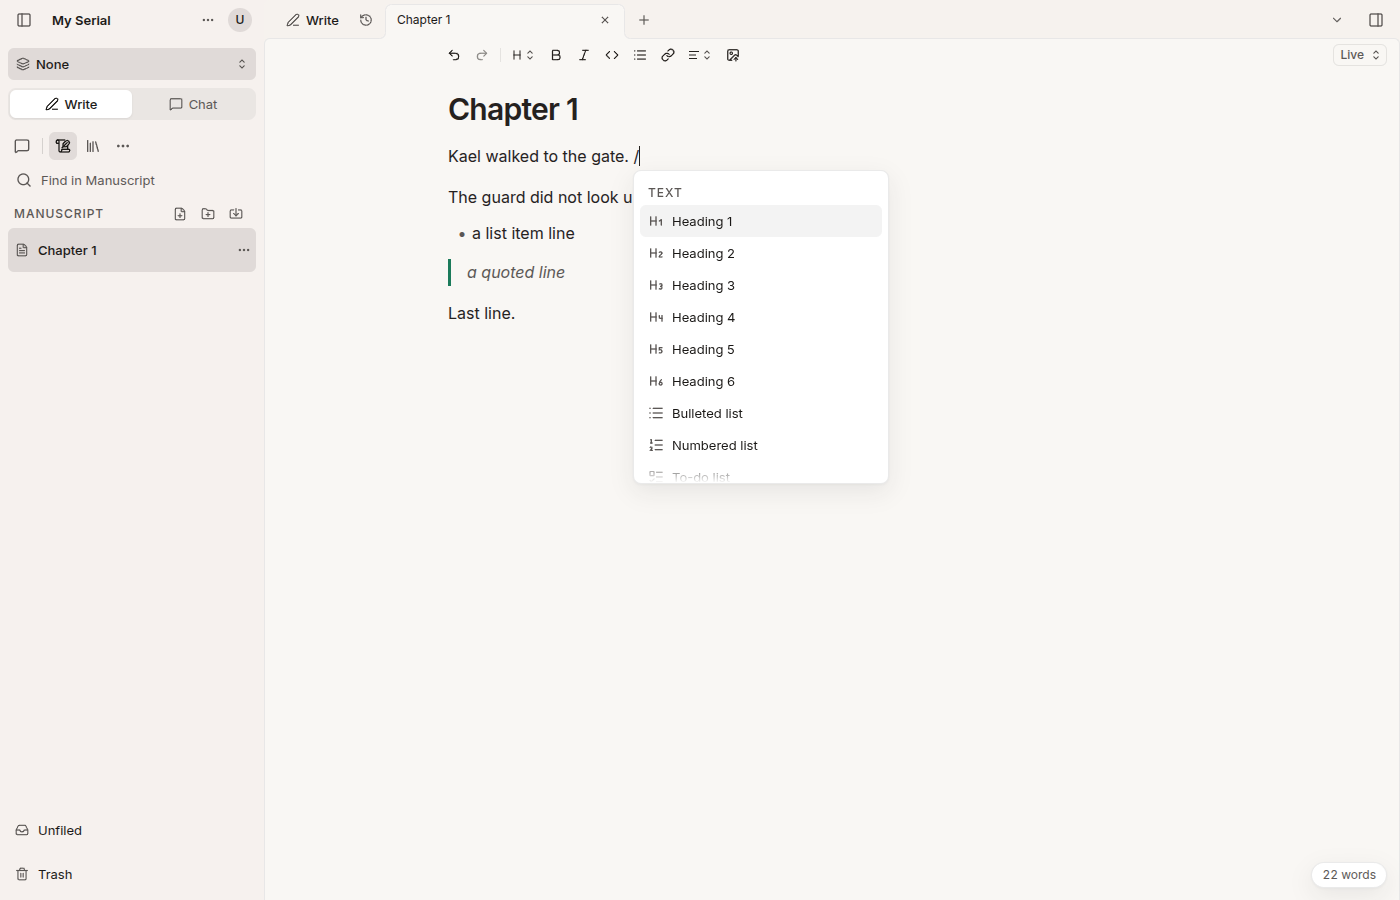
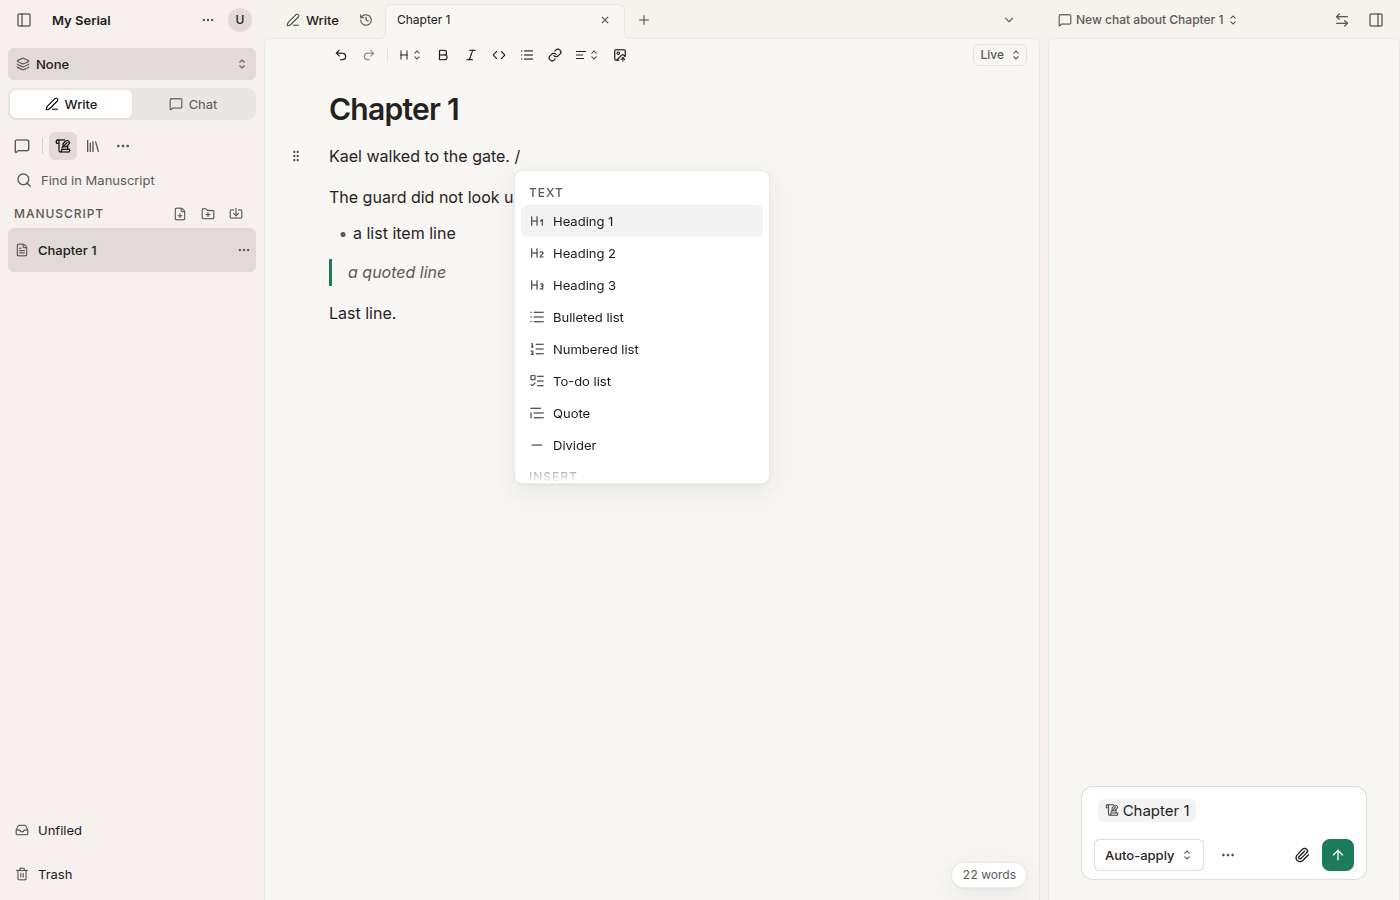
Level changes touch paragraphs only, over every selection range
toggleHeadingLevel ran setBlockType over selection.from..to, so the
Mod+Alt+N shortcuts retyped fences and diagrams (joining their lines and
dropping the language) and converted only one cell of a swept table. It now
collects the paragraphs in every selection range and changes their level
one by one through block-type's setBlockType. setParagraph keeps its own
setBlockType call: leaving a fence is not a level change, and Turn into's
Paragraph row and the code block's Backspace need it.

The unfiltered slash menu lists H1-H3; H4-H6 appear once the query
matches them, so the rows below stay above the fold.

diff --git a/apps/app/src/core/editor/extensions/meridian-extensions.ts b/apps/app/src/core/editor/extensions/meridian-extensions.ts
@@ -7,14 +7,7 @@
  * surface; consumed by the editor `config`.
  */
 import { HEADING_LEVELS, type HeadingLevel, isNested } from "@meridian/prosemirror-schema";
-import {
-  isiOS,
-  isMacOS,
-  isNodeActive,
-  type KeyboardShortcutCommand,
-  mergeAttributes,
-  Node,
-} from "@tiptap/core";
+import { isiOS, isMacOS, type KeyboardShortcutCommand, mergeAttributes, Node } from "@tiptap/core";
 import Bold from "@tiptap/extension-bold";
 import Code from "@tiptap/extension-code";
 import CodeBlockLowlight from "@tiptap/extension-code-block-lowlight";
@@ -148,8 +141,8 @@ declare module "@tiptap/core" {
   interface Commands<ReturnType> {
     headingLevel: {
       /**
-       * Gives every text block under the selection this level, keeping each block and its
-       * Yjs element; a level they all already have, or null, returns them to body text.
+       * Gives every paragraph under the selection this level, keeping each block and its Yjs
+       * element; a level they all already have, or null, returns them to body text.
        */
       toggleHeadingLevel: (attributes: { level: HeadingLevel | null }) => ReturnType;
     };
@@ -223,17 +216,33 @@ export const MeridianParagraph = Paragraph.extend({
 
   addCommands() {
     return {
-      // TipTap's own `setParagraph` rebuilds the block from defaults; ours is body text.
       setParagraph:
         () =>
-        ({ commands }) =>
-          commands.toggleHeadingLevel({ level: null }),
+        ({ tr }) =>
+          setBlockType(tr, tr.selection.from, tr.selection.to, this.type, { level: null }),
+      // Paragraphs only, over every range: a fence or a component under the selection is not a
+      // level, and a swept table reports one cell as `from`..`to`.
       toggleHeadingLevel:
         ({ level }) =>
-        ({ tr, state }) => {
-          const unset = level === null || isNodeActive(state, this.type, { level });
-          const { from, to } = tr.selection;
-          return setBlockType(tr, from, to, this.type, { level: unset ? null : level });
+        ({ tr }) => {
+          const blocks: number[] = [];
+          for (const { $from, $to } of tr.selection.ranges) {
+            tr.doc.nodesBetween($from.pos, $to.pos, (node, pos) => {
+              if (node.type === this.type) blocks.push(pos);
+              return !node.isTextblock;
+            });
+          }
+          const unset =
+            level === null || blocks.every((pos) => tr.doc.nodeAt(pos)?.attrs.level === level);
+          const start = tr.steps.length;
+          let changed = false;
+          for (const pos of blocks) {
+            const at = tr.mapping.slice(start).map(pos) + 1;
+            if (setBlockType(tr, at, at, this.type, { level: unset ? null : level })) {
+              changed = true;
+            }
+          }
+          return changed;
         },
     };
   },
@@ -257,7 +266,7 @@ export const MeridianParagraph = Paragraph.extend({
         const atStart = isolated
           ? $anchor.pos - $anchor.parentOffset === pos
           : Selection.atStart(tr.doc).from === pos;
-        return atStart && commands.setParagraph();
+        return atStart && commands.toggleHeadingLevel({ level: null });
       });
     const backspaceKeys = ["Backspace", "Mod-Backspace", "Shift-Backspace"];
     if (isMacOS() || isiOS()) backspaceKeys.push("Ctrl-h", "Alt-Backspace");

diff --git a/apps/app/src/features/editor/surfaces/toolbar/toolbar-commands.ts b/apps/app/src/features/editor/surfaces/toolbar/toolbar-commands.ts
@@ -262,9 +262,12 @@ export function turnIntoBlockType(editor: Editor, id: BlockTypeId): boolean {
 /** The conversion behind Turn into for one selection, toggle semantics intact. */
 function applyBlockType(editor: Editor, id: BlockTypeId): boolean {
   const level = blockTypeLevel(id);
-  if (level !== undefined) return editor.chain().focus().toggleHeadingLevel({ level }).run();
+  if (level) return editor.chain().focus().toggleHeadingLevel({ level }).run();
 
   switch (id) {
+    // Body text from any text block, a fence included: a level change touches paragraphs only.
+    case "paragraph":
+      return editor.chain().focus().setParagraph().run();
     case "bulletList":
       return editor.chain().focus().toggleListKind("bullet").run();
     case "orderedList":

diff --git a/apps/app/src/features/editor/surfaces/slash/slash-catalog-copy.ts b/apps/app/src/features/editor/surfaces/slash/slash-catalog-copy.ts
@@ -21,6 +21,9 @@ function diagramName(): string {
   return defaultDiagramProvider().name;
 }
 
+/** The levels the unfiltered menu lists; the deeper ones appear once typed (`h4`, `heading 5`). */
+const UNFILTERED_HEADING_LEVELS = 3;
+
 /** What a writer may type for a level besides `h1`..`h6`. */
 function headingAliases(level: HeadingLevel): string[] {
   if (level === 1) return [t`title`, t`section`];
@@ -34,6 +37,7 @@ function headingItem(level: HeadingLevel): SlashCommandItem {
     group: "text",
     label: blockTypeLabel(`heading${level}`),
     aliases: [`h${level}`, ...headingAliases(level)],
+    onlyWhenSearched: level > UNFILTERED_HEADING_LEVELS,
   };
 }
 

diff --git a/apps/app/src/core/editor/extensions/slash/slash-catalog.ts b/apps/app/src/core/editor/extensions/slash/slash-catalog.ts
@@ -38,6 +38,8 @@ export type SlashCommandItem = {
   aliases: readonly string[];
   /** A second line of answer for entries whose result is not obvious. */
   hint?: string;
+  /** Left out of the unfiltered menu, so rarer rows don't push the rest past its fold. */
+  onlyWhenSearched?: boolean;
 };
 
 export type SlashCommandCatalog = {
@@ -79,7 +81,7 @@ export function filterSlashCommandItems(
   query: string,
 ): SlashCommandItem[] {
   const normalizedQuery = query.trim().toLocaleLowerCase();
-  if (!normalizedQuery) return [...items];
+  if (!normalizedQuery) return items.filter((item) => !item.onlyWhenSearched);
 
   return items
     .map((item, order) => ({
